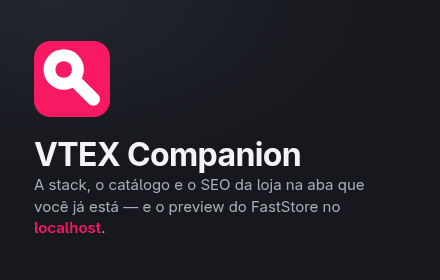
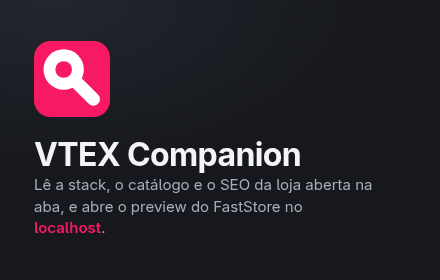
docs: rewrite store-facing copy without AI writing tells
Applies the sibling repo's voice rules (docs/texto-do-site.md) to every
string the visitor reads. The extension's UI carried the same patterns
the landing already shed: dashes as connectors, staged negations, and
rhetorical triads.

- UI strings, SEO findings and runner notes: em dashes become colons or
  commas; template labels use parentheses (PDP (página de produto));
  the pixels hint keeps the three real categories but drops the dash
  rhythm.
- Store listing (docs/publicacao.md): the privacy paragraph says what
  happens (nenhum dado seu sai do navegador) instead of the parallel
  negation Nada é coletado, nada é transmitido; the legacy-preview line
  describes the controls as inert instead of staging a not-X-but-Y.
  The AMO privacy block is re-synced with its canonical source in
  portfolio-astro, including the title colon (the canonical file keeps
  its triple negation: that is a legal text, owned there).
- README: feature list switches dash-for-label to colon; the vendors
  bullet drops the ten company names (README is public-facing; the
  spam rejection that removed them from the listing applies here too);
  alt text follows the same rule; the roadmap table gains the two items
  this round delivered and loses the ones it closed.
- Promo tagline aligns with the landing hero wording; image regenerated.
- PRIVACY.md one-liner rephrased the same way.

No claim gained or lost a fact: counts, store names, API names and
flags are unchanged.

Changed region(s): [[0.0591, 0.6286, 0.8568, 0.6857], [0.0591, 0.7143, 0.7682, 0.7714]]

diff --git a/lib/seo/analyze.ts b/lib/seo/analyze.ts
@@ -44,7 +44,7 @@ export function analyzeSeo(
   // Indexação primeiro: é o achado que muda o peso de todos os outros.
   const robots = `${seo.robots ?? ''} ${seo.googlebot ?? ''}`.toLowerCase();
   if (robots.includes('noindex')) {
-    add('noindex', 'error', 'Página marcada como noindex — fora do índice.');
+    add('noindex', 'error', 'Página marcada como noindex: fora do índice.');
   }
   if (robots.includes('nofollow')) {
     add('nofollow', 'warn', 'Links da página marcados como nofollow.');
@@ -53,12 +53,12 @@ export function analyzeSeo(
   if (!seo.title) {
     add('title-missing', 'error', 'Sem <title>.');
   } else if (seo.title.length < TITLE_MIN) {
-    add('title-short', 'warn', `Title com ${seo.title.length} caracteres — curto.`);
+    add('title-short', 'warn', `Title com ${seo.title.length} caracteres: curto.`);
   } else if (seo.title.length > TITLE_MAX) {
     add(
       'title-long',
       'warn',
-      `Title com ${seo.title.length} caracteres — deve ser cortado na SERP.`,
+      `Title com ${seo.title.length} caracteres: deve ser cortado na SERP.`,
     );
   }
 
@@ -68,13 +68,13 @@ export function analyzeSeo(
     add(
       'description-short',
       'info',
-      `Description com ${seo.description.length} caracteres — curta.`,
+      `Description com ${seo.description.length} caracteres: curta.`,
     );
   } else if (seo.description.length > DESCRIPTION_MAX) {
     add(
       'description-long',
       'info',
-      `Description com ${seo.description.length} caracteres — deve ser cortada.`,
+      `Description com ${seo.description.length} caracteres: deve ser cortada.`,
     );
   }
 
@@ -102,7 +102,7 @@ export function analyzeSeo(
     add(
       'og-incomplete',
       'info',
-      'Open Graph incompleto — compartilhamento fica sem título ou imagem.',
+      'Open Graph incompleto: compartilhamento fica sem título ou imagem.',
     );
   }
 

diff --git a/ui/components/SessionSection.tsx b/ui/components/SessionSection.tsx
@@ -139,7 +139,7 @@ export function SessionSection({
           <strong>Clonar do admin</strong> copia a sessão de{' '}
           <code>{result.account}.myvtex.com</code> para esta origem, sem o token
           passar pela área de transferência. <strong>Limpar sessão</strong>{' '}
-          apaga todos os cookies acima — a sessão de admin e a da loja.
+          apaga todos os cookies acima: a sessão de admin e a da loja.
         </Empty>
       ) : (
         <Empty>
@@ -186,7 +186,7 @@ export function SessionSection({
 
         <Empty>
           O token dá acesso completo à sessão nesta origem. Ele não é guardado
-          pela extensão — some quando o painel fecha.
+          pela extensão e some quando o painel fecha.
         </Empty>
       </details>
     </section>

diff --git a/ui/components/UrlSection.tsx b/ui/components/UrlSection.tsx
@@ -18,7 +18,7 @@ const FLAGS = URL_FLAGS.filter((flag) => flag.key !== 'workspace');
 /** Tooltip: o parâmetro que a flag escreve, e o que ele faz. */
 function flagTitle(flag: (typeof FLAGS)[number]): string {
   const param = flag.kind === 'toggle' ? `${flag.key}=${flag.on}` : `${flag.key}=`;
-  return `${param} — ${flag.hint}`;
+  return `${param}: ${flag.hint}`;
 }
 
 export function UrlSection({
@@ -205,7 +205,7 @@ export function UrlSection({
             label={flag.label}
             value={
               <>
-                <code>{flag.key}</code> — {flag.hint}
+                <code>{flag.key}</code>: {flag.hint}
               </>
             }
           />

diff --git a/lib/url/flags.ts b/lib/url/flags.ts
@@ -45,7 +45,7 @@ export const URL_FLAGS: FlagSpec[] = [
     label: 'Sem SSR',
     kind: 'toggle',
     on: 'true',
-    hint: 'A página vem sem render no servidor — mostra o que é do cliente.',
+    hint: 'A página vem sem render no servidor, e mostra o que é do cliente.',
     io: true,
   },
   {
@@ -61,7 +61,7 @@ export const URL_FLAGS: FlagSpec[] = [
     label: 'Sem pixels',
     kind: 'toggle',
     on: 'true',
-    hint: 'Não carrega os apps de pixel — analytics, remarketing, monitoramento.',
+    hint: 'Não carrega os apps de pixel (analytics, remarketing e monitoramento).',
     io: true,
   },
   {

diff --git a/ui/labels.ts b/ui/labels.ts
@@ -34,10 +34,10 @@ export function identityLine(
 
 /** Nome por extenso, para quando há espaço de linha inteira. */
 export const PLATFORM_FULL: Record<DetectionResult['platform'], string> = {
-  io: 'VTEX IO — Store Framework',
+  io: 'VTEX IO (Store Framework)',
   faststore: 'FastStore',
   'cms-legacy': 'CMS Legacy Portal',
-  headless: 'Headless — VTEX sem storefront conhecido',
+  headless: 'Headless (VTEX sem storefront conhecido)',
   'not-vtex': 'Não é VTEX',
   unknown: 'Indeterminado',
 };

diff --git a/entrypoints/popup/tabs/PreviewTab.tsx b/entrypoints/popup/tabs/PreviewTab.tsx
@@ -48,7 +48,7 @@ export function PreviewTab({
       {fit === 'other-platform' && result ? (
         <Empty tone="error">
           Esta loja é {PLATFORM_SHORT[result.platform]}, e a pré-visualização
-          dela é por workspace. Nada nesta aba se aplica aqui — os campos
+          dela é por workspace. Nada nesta aba se aplica aqui; os campos
           continuam valendo para quando você abrir o admin de uma loja em
           FastStore.
         </Empty>

diff --git a/lib/catalog/probe.ts b/lib/catalog/probe.ts
@@ -119,7 +119,7 @@ async function fetchCatalog(target: CatalogTarget): Promise<CatalogSnapshot> {
         kind: 'category',
         category: { id: target.entityId, name: null, path, hasChildren: null },
         search: target.search,
-        note: 'Detalhe da categoria indisponível — mostrando o que a URL entrega.',
+        note: 'Detalhe da categoria indisponível: mostrando o que a URL entrega.',
       };
     }
   }

diff --git a/lib/runner/presets.ts b/lib/runner/presets.ts
@@ -134,7 +134,7 @@ export const PRESETS: Preset[] = [
   ),
 
   preset('oms-orders', 'OMS', 'Últimos pedidos', 'GET', '/api/oms/pvt/orders?per_page=5', {
-    note: 'Precisa de sessão de admin — use numa aba do myvtex.com.',
+    note: 'Precisa de sessão de admin: use numa aba do myvtex.com.',
   }),
   preset('oms-order', 'OMS', 'Pedido por id', 'GET', '/api/oms/pvt/orders/{orderId}'),
 

diff --git a/entrypoints/devtools-panel/Panel.tsx b/entrypoints/devtools-panel/Panel.tsx
@@ -76,7 +76,7 @@ export default function Panel() {
           </button>
           <p className="muted">
             Se o navegador recusar o pedido aqui, abra o popup da extensão nesta
-            aba e conceda por lá — depois recarregue o DevTools.
+            aba e conceda por lá, depois recarregue o DevTools.
           </p>
         </section>
       )}

diff --git a/entrypoints/popup/tabs/PageTab.tsx b/entrypoints/popup/tabs/PageTab.tsx
@@ -11,8 +11,8 @@ import { Empty, Row } from '@/ui/components/Row';
 
 const TEMPLATE_LABELS: Record<PageTemplate, string> = {
   home: 'Home',
-  pdp: 'PDP — página de produto',
-  plp: 'PLP — listagem',
+  pdp: 'PDP (página de produto)',
+  plp: 'PLP (listagem)',
   search: 'Busca',
   checkout: 'Checkout',
   'order-placed': 'Order placed',

diff --git a/ui/components/SegmentSection.tsx b/ui/components/SegmentSection.tsx
@@ -122,7 +122,7 @@ export function SegmentSection({
 
       <Empty>
         A troca vale para a próxima navegação, e a Session Manager pode
-        reescrever o cookie — se o valor voltar ao anterior, foi a loja.
+        reescrever o cookie. Se o valor voltar ao anterior, foi a loja.
       </Empty>
 
       <details className="advanced">

diff --git a/lib/auth/cookie.ts b/lib/auth/cookie.ts
@@ -110,7 +110,7 @@ export async function clearSession(url: string): Promise<CookieResult> {
   if (left.length > 0) {
     return {
       ok: false,
-      message: `Sobrou ${left.join(', ')} — provavelmente gravado no domínio pai.`,
+      message: `Sobrou ${left.join(', ')}: provavelmente gravado no domínio pai.`,
     };
   }
 
